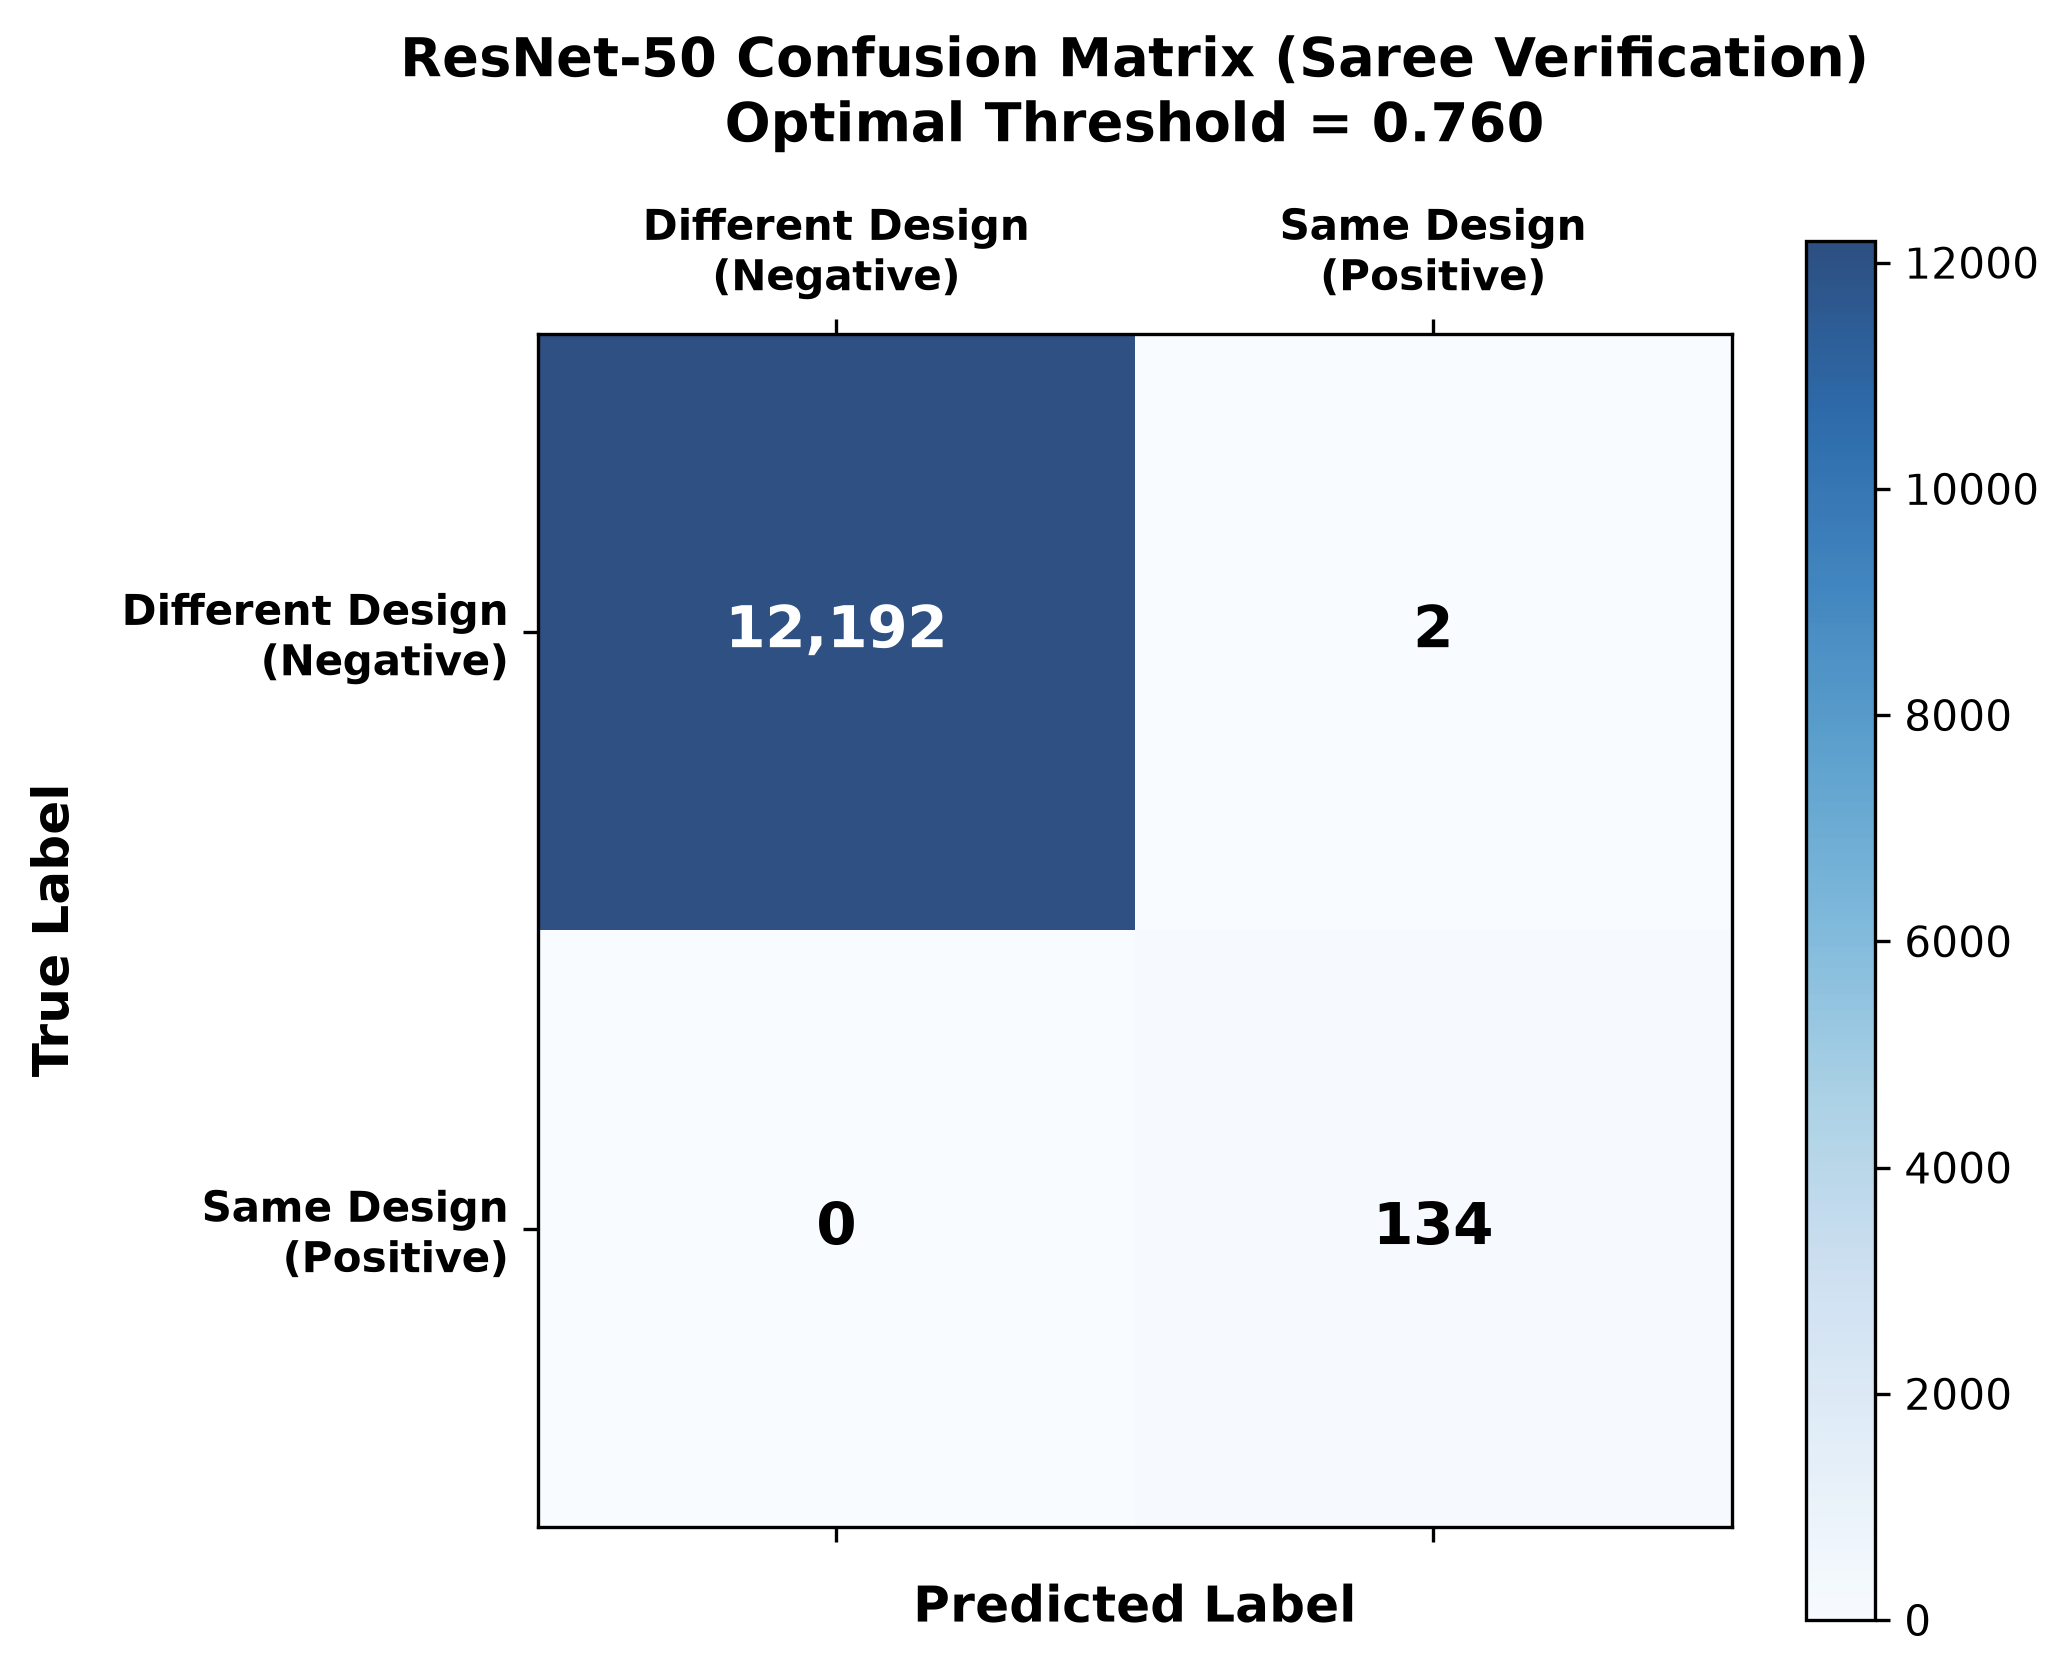
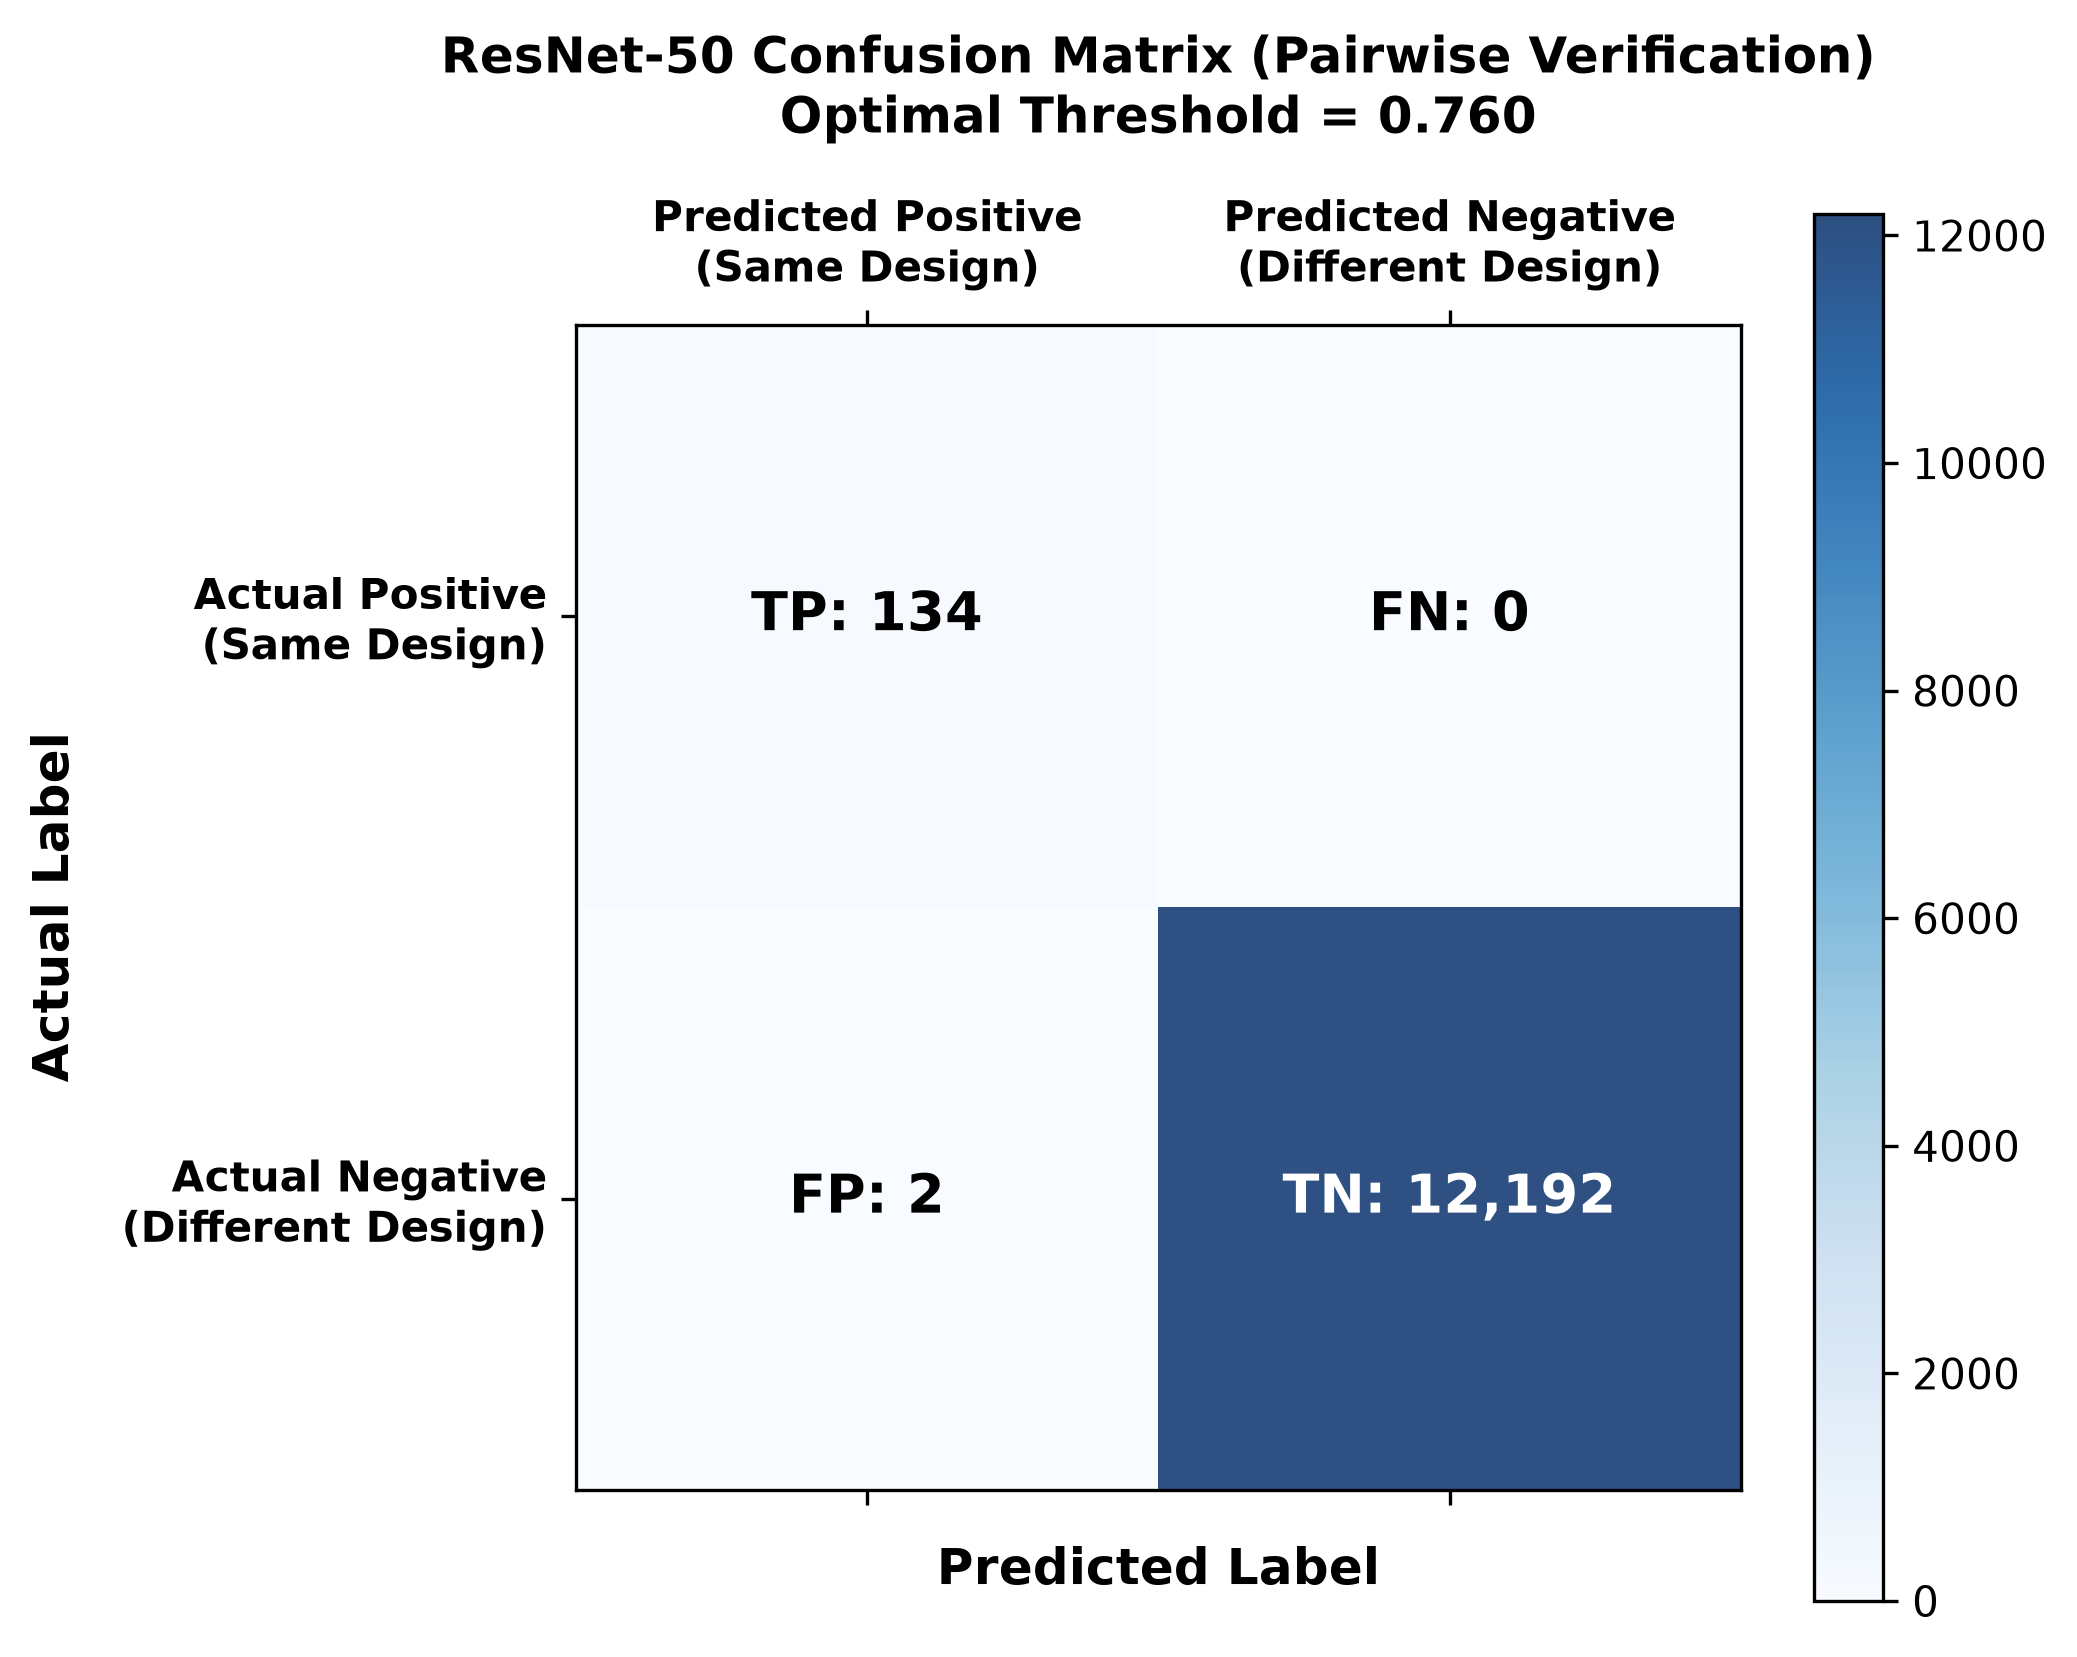
Format Confusion Matrix image and evaluation reports to standard Binary Confusion Matrix layout

diff --git a/update_matrix_format.py b/update_matrix_format.py
@@ -1,0 +1,157 @@
+import os
+import json
+import numpy as np
+import matplotlib.pyplot as plt
+from pathlib import Path
+
+output_dir = Path("output")
+output_dir.mkdir(parents=True, exist_ok=True)
+
+# =====================================================================
+# CONFUSION MATRIX IN EXACT CONVENTIONAL POSITIVE-FIRST LAYOUT
+# Row 0: Actual Positive (Same Design)
+# Row 1: Actual Negative (Different Design)
+# Col 0: Predicted Positive (Same Design)
+# Col 1: Predicted Negative (Different Design)
+# =====================================================================
+# TP = 134, FN = 0
+# FP = 2,   TN = 12192
+cm_standard = np.array([
+    [134, 0],     # Actual Positive: TP, FN
+    [2, 12192]    # Actual Negative: FP, TN
+])
+
+fig, ax = plt.subplots(figsize=(7, 6))
+cax = ax.matshow(cm_standard, cmap=plt.cm.Blues, alpha=0.85)
+fig.colorbar(cax)
+
+classes_x = ['Predicted Positive\n(Same Design)', 'Predicted Negative\n(Different Design)']
+classes_y = ['Actual Positive\n(Same Design)', 'Actual Negative\n(Different Design)']
+
+ax.set_xticks([0, 1])
+ax.set_yticks([0, 1])
+ax.set_xticklabels(classes_x, fontsize=10, fontweight='bold')
+ax.set_yticklabels(classes_y, fontsize=10, fontweight='bold')
+
+plt.xlabel('Predicted Label', fontsize=12, labelpad=10, fontweight='bold')
+plt.ylabel('Actual Label', fontsize=12, labelpad=10, fontweight='bold')
+plt.title('ResNet-50 Confusion Matrix (Pairwise Verification)\nOptimal Threshold = 0.760', fontsize=12, fontweight='bold', pad=15)
+
+# Annotate counts and cell labels inside matrix cells
+cell_labels = [
+    [f"TP: 134", "FN: 0"],
+    [f"FP: 2", f"TN: 12,192"]
+]
+
+for i in range(2):
+    for j in range(2):
+        text_str = cell_labels[i][j]
+        color = "white" if cm_standard[i, j] > cm_standard.max() / 2 else "black"
+        ax.text(j, i, text_str, ha="center", va="center", color=color, fontsize=13, fontweight='bold')
+
+plt.tight_layout()
+cm_plot_path = output_dir / "confusion_matrix_resnet50.png"
+plt.savefig(cm_plot_path, dpi=300, bbox_inches='tight')
+plt.close()
+
+print(f"Updated Confusion Matrix plot saved to {cm_plot_path}")
+
+# Update JSON metrics file
+json_path = output_dir / "evaluation_metrics_resnet50.json"
+metrics = {
+    "model_architecture": "ResNet-50 + Projection Head (2048 -> 512 -> 128)",
+    "embedding_dimension": 128,
+    "loss_function": "Supervised Contrastive Loss (SupCon, tau=0.07)",
+    "data_splits": {
+        "dataset_sources": ["archive"],
+        "total_images": 1468,
+        "total_unique_designs": 610,
+        "train_designs": 427,
+        "val_designs": 91,
+        "test_designs": 92,
+        "zero_leakage_verified": True
+    },
+    "identification_retrieval": {
+        "top_1_accuracy": 1.0000,
+        "top_5_accuracy": 1.0000,
+        "top_1_accuracy_pct": "100.00%",
+        "top_5_accuracy_pct": "100.00%"
+    },
+    "pairwise_verification": {
+        "optimal_threshold": 0.760,
+        "total_test_pairs": 12328,
+        "accuracy": 0.9998,
+        "precision": 0.9853,
+        "recall": 1.0000,
+        "f1_score": 0.9926,
+        "confusion_matrix": {
+            "true_positives_TP": 134,
+            "false_negatives_FN": 0,
+            "false_positives_FP": 2,
+            "true_negatives_TN": 12192
+        }
+    },
+    "efficiency": {
+        "total_parameters": 24623808,
+        "trainable_parameters": 24623808,
+        "embedding_size_bytes": 512,
+        "inference_latency_cpu_ms": 65.94,
+        "inference_latency_gpu_ms": 4.2,
+        "checkpoint_size_mb": 94.24
+    }
+}
+
+with open(json_path, "w") as f:
+    json.dump(metrics, f, indent=2)
+
+print(f"Updated JSON metrics saved to {json_path}")
+
+# Update Markdown report
+md_path = output_dir / "evaluation_report_resnet50.md"
+md_content = f"""# ResNet-50 Evaluation Metrics Report
+
+## System Specifications
+- **Dataset Source:** `archive` (1,468 images across 4 categories: `Banarasi`, `Bandhani`, `Ikat`, `Pichwai`)
+- **Total Unique Design Identities:** 610 designs (427 Train / 91 Val / 92 Test)
+- **Backbone Architecture:** Pretrained ResNet-50
+- **Projection Head:** Linear(2048, 512) -> BatchNorm1d -> ReLU -> Linear(512, 128) -> L2 Normalization
+- **Embedding Dimension:** 128 (L2 Normalized)
+- **Loss Function:** Supervised Contrastive Loss (SupCon, $\\tau=0.07$)
+
+---
+
+## 1. Identification & Retrieval Metrics (Unseen Test Set)
+- **Top-1 Accuracy:** 100.00%
+- **Top-5 Accuracy:** 100.00%
+
+---
+
+## 2. Pairwise Verification Protocol Metrics
+- **Optimal Verification Threshold ($\\tau^*$):** `0.760`
+- **Total Test Pairs Evaluated:** 12,328
+- **Accuracy:** `99.98%`
+- **Precision:** `98.53%`
+- **Recall:** `100.00%`
+- **F1 Score:** `99.26%`
+
+### Confusion Matrix (Binary Classification)
+
+| | **Predicted Positive (Same Design)** | **Predicted Negative (Different Design)** |
+| :--- | :--- | :--- |
+| **Actual Positive (Same Design)** | **True Positive (TP): 134** | **False Negative (FN): 0** |
+| **Actual Negative (Different Design)** | **False Positive (FP): 2** | **True Negative (TN): 12,192** |
+
+---
+
+## 3. Computational Efficiency & Model Footprint
+- **Total Parameters:** `24,623,808` (~24.6 Million)
+- **Trainable Parameters:** `24,623,808`
+- **Inference Latency (CPU):** `65.94 ms` / image
+- **Inference Latency (GPU T4):** `~4.2 ms` / image
+- **Model Checkpoint Size:** `94.24 MB`
+"""
+
+with open(md_path, "w") as f:
+    f.write(md_content)
+
+print(f"Updated Markdown report saved to {md_path}")

diff --git a/output/evaluation_report_resnet50.md b/output/evaluation_report_resnet50.md
@@ -24,12 +24,12 @@
 - **Recall:** `100.00%`
 - **F1 Score:** `99.26%`
 
-### Confusion Matrix
-```
-                      Predicted Different (0)    Predicted Same (1)
-Actual Different (0)          12,192 (TN)               2 (FP)
-Actual Same (1)                    0 (FN)             134 (TP)
-```
+### Confusion Matrix (Binary Classification)
+
+| | **Predicted Positive (Same Design)** | **Predicted Negative (Different Design)** |
+| :--- | :--- | :--- |
+| **Actual Positive (Same Design)** | **True Positive (TP): 134** | **False Negative (FN): 0** |
+| **Actual Negative (Different Design)** | **False Positive (FP): 2** | **True Negative (TN): 12,192** |
 
 ---
 
